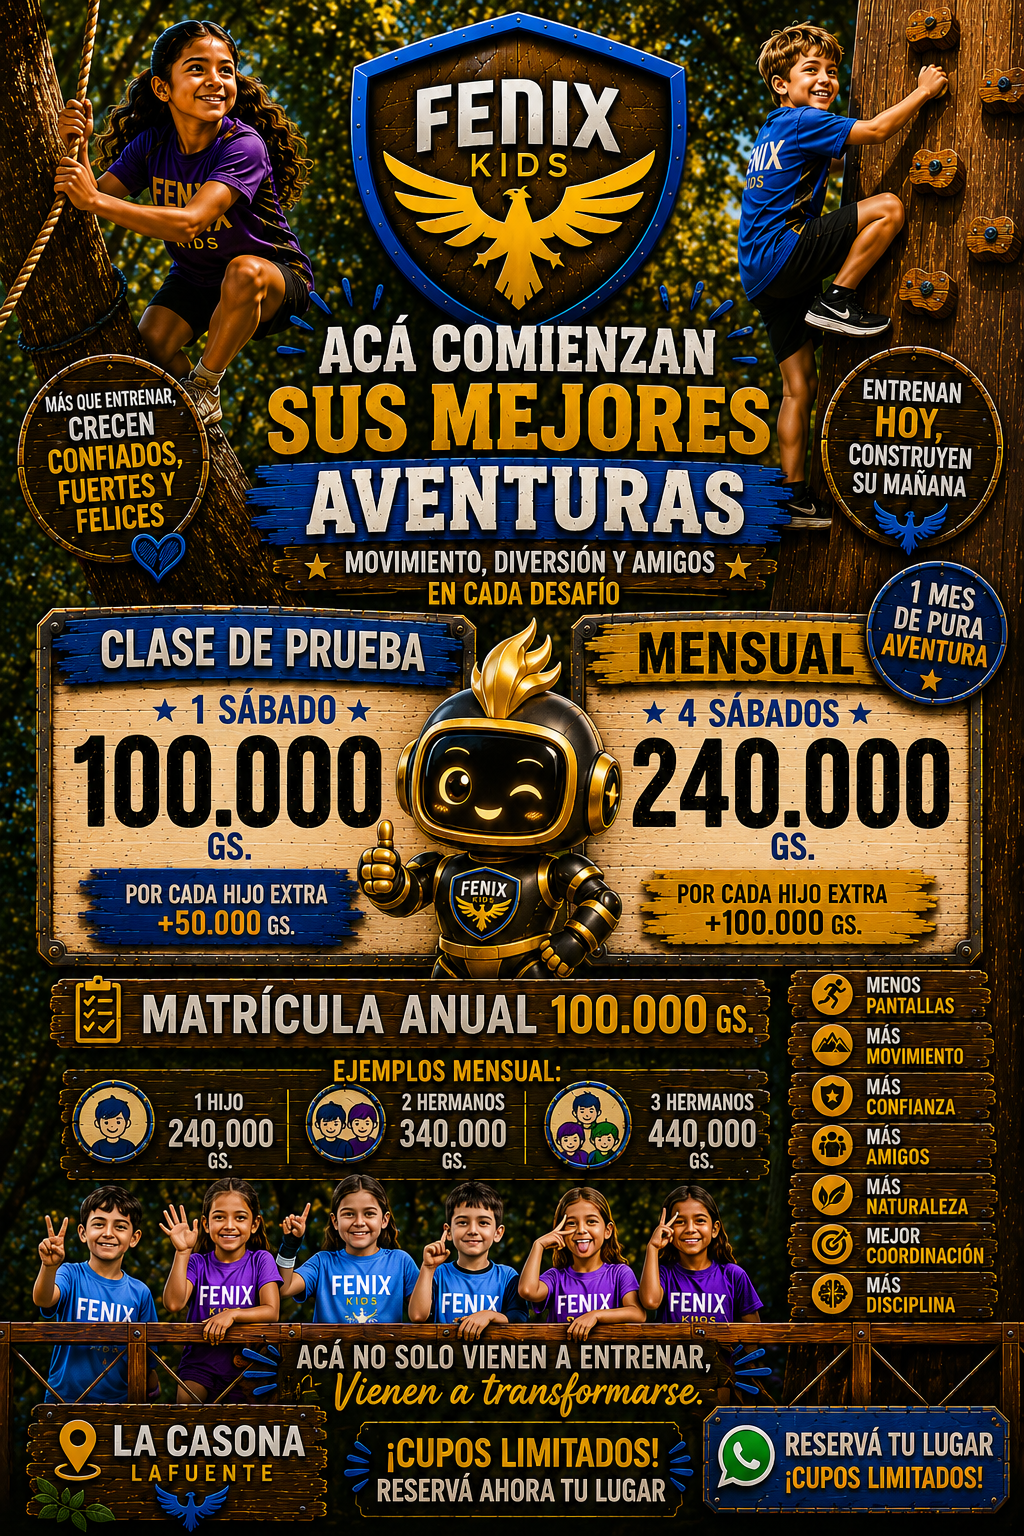
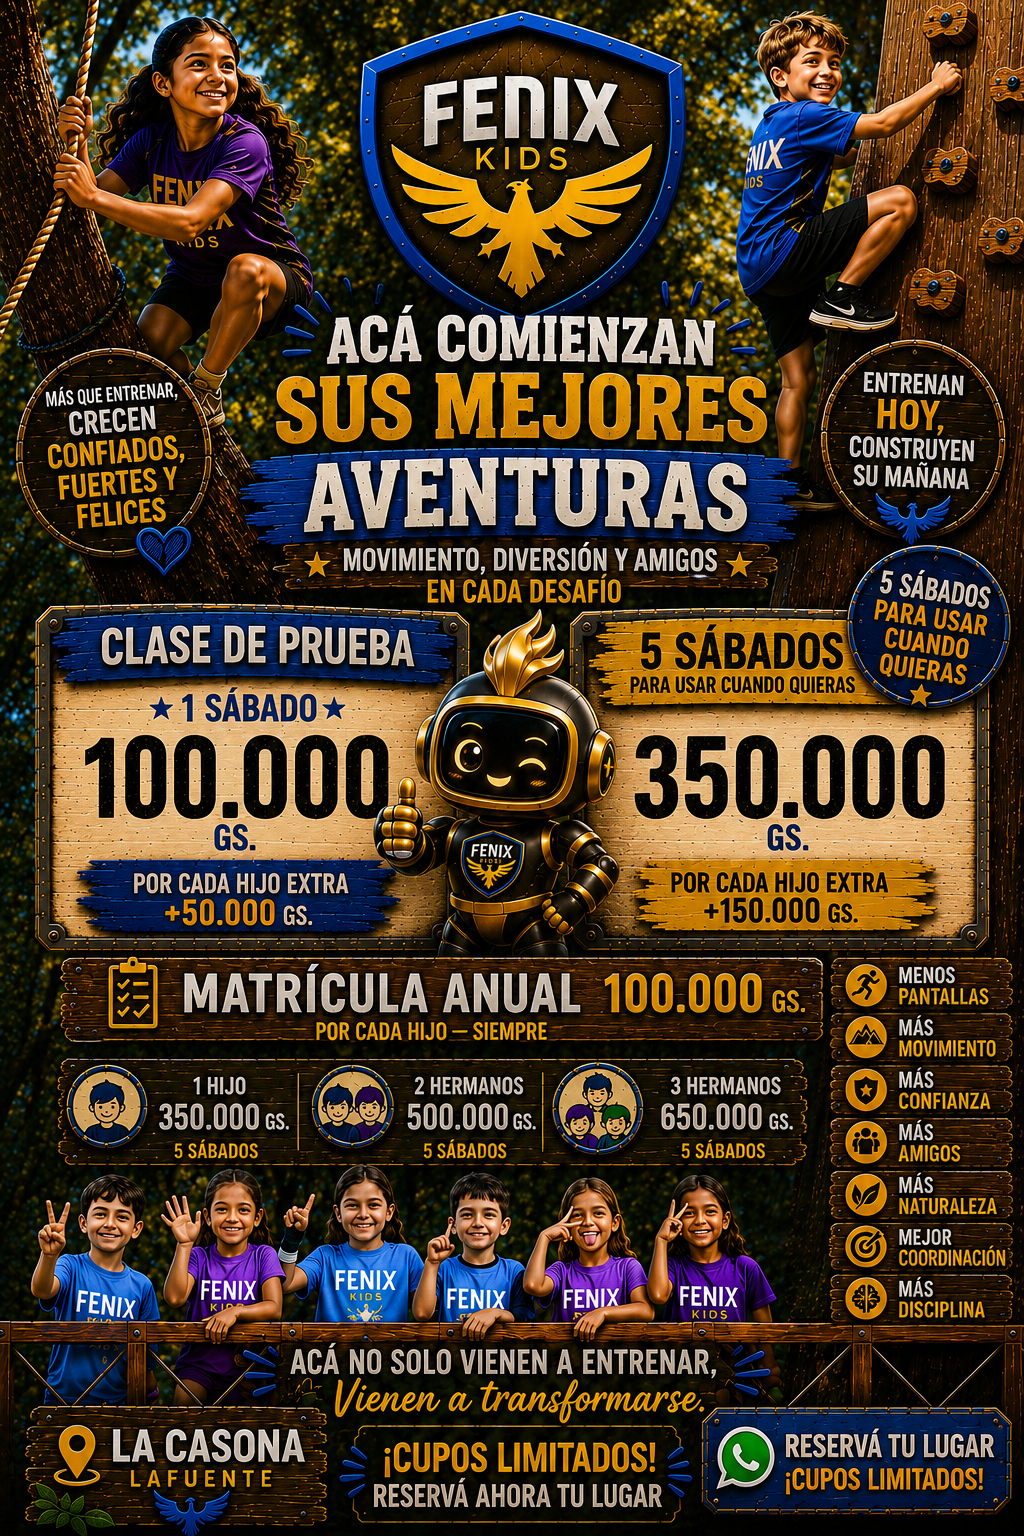
feat(precios): pack de 5 sabados que no vencen (350k) reemplaza al mensual
El mensual de 240k por 4 sabados pasa a ser un pack de 5 clases de 350k
que NO vencen: el padre las usa cuando quiere y se le descuenta una por
visita. Hermano extra +150k (antes +100k). Prueba y matricula sin cambio.

- lead_menu.py: TEXTO_PRECIOS y TEXTO_HERMANOS (350/500/650)
- afiches.py: msg_precios y msg_hermanos
- main.py: los dos fallbacks de texto cuando el afiche ya se envio
- pagos.py: PRECIOS mensual* -> pack5* (sin consumidores, tabla de referencia)
- reminders.py: mensaje de seguimiento A
- static/afiche_fenix.png: afiche nuevo con 350.000 y 5 SABADOS

diff --git a/agent/afiches.py b/agent/afiches.py
@@ -154,10 +154,10 @@ async def _enviar_afiche_hermanos_y_followup(telefono: str, topic_id: int | None
             "1 hijo: 100.000 Gs\n"
             "2 hermanos: 150.000 Gs\n"
             "3 hermanos: 200.000 Gs\n\n"
-            "*Mensual (+100mil c/u extra):*\n"
-            "1 hijo: 240.000 Gs\n"
-            "2 hermanos: 340.000 Gs\n"
-            "3 hermanos: 440.000 Gs\n\n"
+            "*Pack 5 clases, no vencen (+150mil c/u extra):*\n"
+            "1 hijo: 350.000 Gs\n"
+            "2 hermanos: 500.000 Gs\n"
+            "3 hermanos: 650.000 Gs\n\n"
             "📋 *Matrícula anual:* 100.000 Gs por niño"
         )
         await proveedor.enviar_mensaje(telefono, msg_hermanos)
@@ -201,9 +201,9 @@ async def _enviar_afiche_y_followup(telefono: str, topic_id: int | None, tg_grou
         msg_precios = (
             "🌳 *Probá FENIX (padres entran gratis):*\n\n"
             "👦 *Clase de prueba:* 100.000 Gs (1 sábado)\n"
-            "📅 *Mensual:* 240.000 Gs (4 sábados)\n"
+            "🎟 *Pack 5 clases:* 350.000 Gs (5 sábados que NO vencen)\n"
             "📋 *Matrícula anual:* 100.000 Gs por niño\n\n"
-            "+50mil por hermano en prueba | +100mil por hermano en mensual\n\n"
+            "+50mil por hermano en prueba | +150mil por hermano en el pack\n\n"
             "¿Querés venir a probar o inscribirte de una?"
         )
         await proveedor.enviar_mensaje(telefono, msg_precios)

diff --git a/agent/main.py b/agent/main.py
@@ -3334,7 +3334,7 @@ async def _procesar_mensaje_interno(telefono: str, texto: str, msg):
                     _partes.append(
                         "👦👦 *Hermanos:*\n"
                         "Prueba: 100mil +50mil c/u extra\n"
-                        "Mensual: 240mil +100mil c/u extra\n"
+                        "Pack 5 clases (no vencen): 350mil +150mil c/u extra\n"
                         "Matrícula: 100mil por niño\n"
                         "¿Cuántos hijos tenés? Así te armo el combo exacto 🤝"
                     )
@@ -3342,7 +3342,7 @@ async def _procesar_mensaje_interno(telefono: str, texto: str, msg):
                     _acciones_interceptadas.append("afiche_precios")
                     _partes.append("Te paso un afiche para que veas todas las opciones 😊")
                 elif _pide_precios:
-                    _partes.append("Prueba: 100mil (1 sábado). Mensual: 240mil (4 sábados) + matrícula 100mil por niño. +50mil/+100mil por hermano 🌳 Padres entran gratis")
+                    _partes.append("Prueba: 100mil (1 sábado). Pack 5 clases: 350mil (5 sábados que NO vencen) + matrícula 100mil por niño. +50mil/+150mil por hermano 🌳 Padres entran gratis")
 
                 if _pide_horarios and not _ya_envio_horarios:
                     _acciones_interceptadas.append("afiche_horarios")

diff --git a/agent/pagos.py b/agent/pagos.py
@@ -33,9 +33,10 @@ PRECIOS = {
     "prueba": {"cuota": 100_000, "matricula": 0, "total": 100_000, "label": "PRUEBA 100K (1 hijo)"},
     "prueba_2": {"cuota": 150_000, "matricula": 0, "total": 150_000, "label": "PRUEBA 150K (2 hermanos)"},
     "prueba_3": {"cuota": 200_000, "matricula": 0, "total": 200_000, "label": "PRUEBA 200K (3 hermanos)"},
-    "mensual": {"cuota": 240_000, "matricula": 100_000, "total": 340_000, "label": "MENSUAL 240K + MATRÍCULA 100K (1 hijo)"},
-    "mensual_2": {"cuota": 340_000, "matricula": 200_000, "total": 540_000, "label": "MENSUAL 340K + MATRÍCULA 200K (2 hermanos)"},
-    "mensual_3": {"cuota": 440_000, "matricula": 300_000, "total": 740_000, "label": "MENSUAL 440K + MATRÍCULA 300K (3 hermanos)"},
+    # Pack de 5 sábados que NO vencen (reemplaza al mensual de 4 sábados, 28/07/26)
+    "pack5": {"cuota": 350_000, "matricula": 100_000, "total": 450_000, "label": "PACK 5 CLASES 350K + MATRÍCULA 100K (1 hijo)"},
+    "pack5_2": {"cuota": 500_000, "matricula": 200_000, "total": 700_000, "label": "PACK 5 CLASES 500K + MATRÍCULA 200K (2 hermanos)"},
+    "pack5_3": {"cuota": 650_000, "matricula": 300_000, "total": 950_000, "label": "PACK 5 CLASES 650K + MATRÍCULA 300K (3 hermanos)"},
 }
 
 

diff --git a/agent/lead_menu.py b/agent/lead_menu.py
@@ -87,7 +87,7 @@ _BOTON_LISTA = "Ver opciones"
 TEXTO_PRECIOS = (
     "🌳 *Probá FENIX (padres entran gratis):*\n\n"
     "👦 *Clase de prueba:* 100.000 Gs (1 sábado)\n"
-    "📅 *Mensual:* 240.000 Gs (4 sábados)\n"
+    "🎟 *Pack 5 clases:* 350.000 Gs (5 sábados que NO vencen)\n"
     "📋 *Matrícula anual:* 100.000 Gs por niño"
 )
 
@@ -98,10 +98,10 @@ TEXTO_HERMANOS = (
     "1 hijo: 100.000 Gs\n"
     "2 hermanos: 150.000 Gs\n"
     "3 hermanos: 200.000 Gs\n\n"
-    "*Mensual:*\n"
-    "1 hijo: 240.000 Gs\n"
-    "2 hermanos: 340.000 Gs\n"
-    "3 hermanos: 440.000 Gs\n\n"
+    "*Pack 5 clases (no vencen):*\n"
+    "1 hijo: 350.000 Gs\n"
+    "2 hermanos: 500.000 Gs\n"
+    "3 hermanos: 650.000 Gs\n\n"
     "📋 *Matrícula anual:* 100.000 Gs por niño"
 )
 

diff --git a/agent/reminders.py b/agent/reminders.py
@@ -43,7 +43,7 @@ _MENSAJES_SEGUIMIENTO = {
         "Hola! ¿Te quedó alguna duda sobre el Parque FENIX? Acá estoy para contarte lo que necesités 😊",
         (
             f"Te cuento los horarios para venir al parque con tu hijo:\n"
-            f"Sábados: {_HORARIOS_FENIX}\nPrueba 100mil, mensual 240mil + matrícula 100mil por niño. Padres entran gratis 🌳 ¿Te interesa?"
+            f"Sábados: {_HORARIOS_FENIX}\nPrueba 100mil, pack de 5 sábados 350mil (no vencen) + matrícula 100mil por niño. Padres entran gratis 🌳 ¿Te interesa?"
         ),
         "Imaginate un sábado al aire libre, frente al río, vos entrenando al lado de tu hijo 🌳 ¿Te gustaría agendar un sábado inolvidable para los dos?",
     ],
